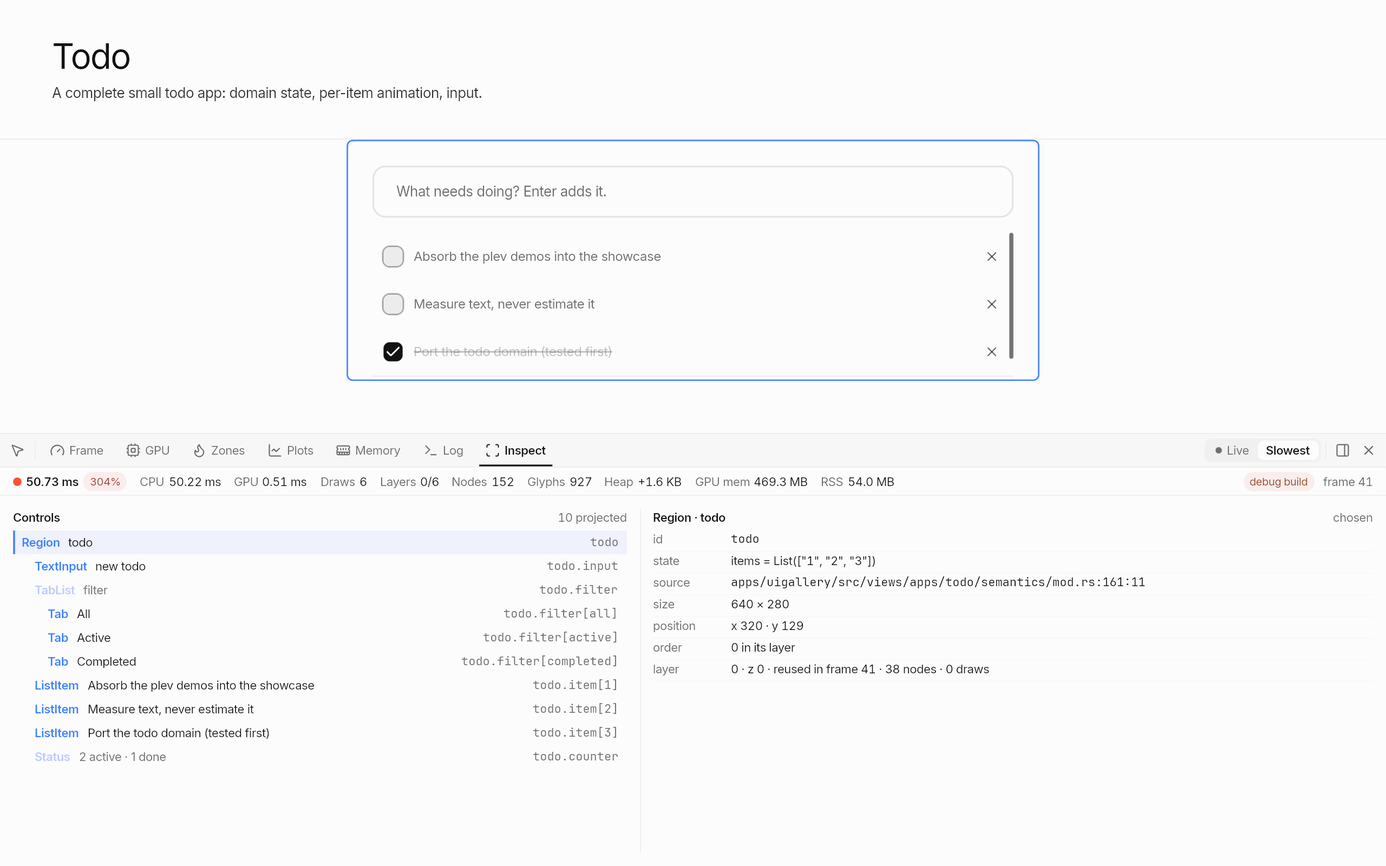
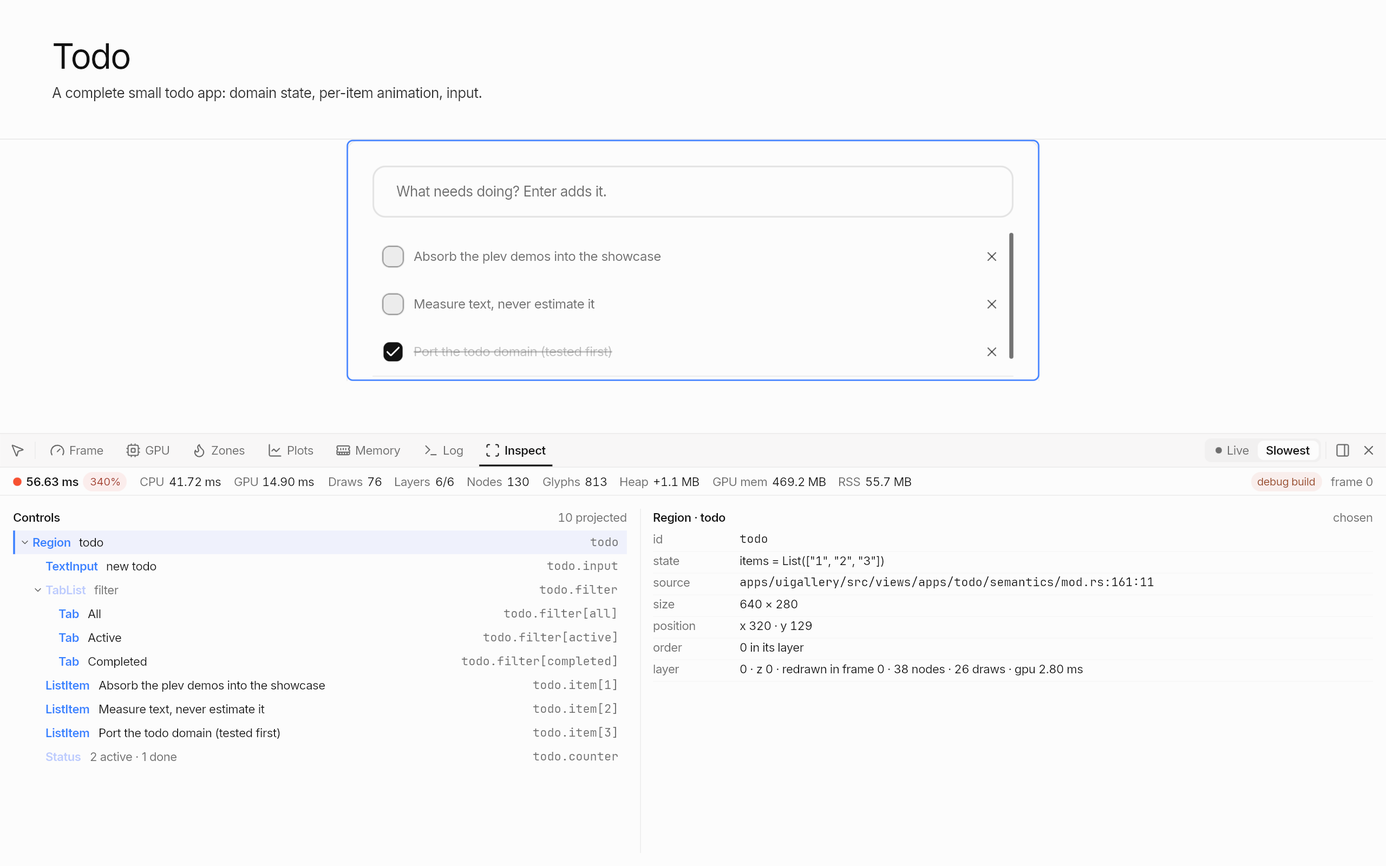
task-105: the readme says how to use the dev mode, and ADR 0093 why it is the engine's own
The task's document follows the picker, the fold, the log and the
browser, with the images drawn again and two new ones (a scene node
chosen on the Icons page, the panel in Chrome). TERMS keeps the names
the first two tries left in the pages of 2026-11, ATLAS the dev module
and Compositor::node_at, and the changelog and the catalog the record.

diff --git a/docs/Tasks/task-105-profiler-panel-in-the-gallery/task-105-profiler-panel-in-the-gallery.md b/docs/Tasks/task-105-profiler-panel-in-the-gallery/task-105-profiler-panel-in-the-gallery.md
@@ -8,7 +8,7 @@ date: 2026-11-03
 date_basis: text
 recorded: 2026-11-03
 topics: [rendering, process]
-relations: [adr-0008]
+relations: [adr-0008, adr-0093]
 source: "https://github.com/brennercruvinel/plev/issues/180"
 source_revision: a6d523b8
 revised: 2026-11-25
@@ -19,7 +19,7 @@ review: pending
 
 The engine's own view of what it does, drawn over any app. A small gear sits at the page's lower right corner. It opens a panel docked in the window, below the page or beside it, and the page lays out again in what is left, so nothing of it hides under the panel. The panel's edge drags to give it more or less of the window.
 
-A launch gets its dev mode from `PLEV_DEV`: `1` for the gear, a view's name (`PLEV_DEV=gpu`) for the panel already open on that view. F12 opens and closes the panel. Without the variable nothing is drawn, no event is taken and nothing is measured.
+A launch gets its dev mode from `PLEV_DEV`: `1` for the gear, a view's name (`PLEV_DEV=gpu`) for the panel already open on that view. In the browser, which has no environment, the page's query says the same: `?dev=1`, `?dev=gpu`. F12 opens and closes the panel. Without the request nothing is drawn, no event is taken and nothing is measured.
 
 ```sh
 PLEV_DEV=1 cargo run -p uigallery
@@ -42,8 +42,8 @@ Under the strip one line stays whatever the tab: the frame's time with its share
 - **Zones** puts the CPU's named zones on one time axis, thread by thread, each zone a bar with the zones it holds under it, in a color that is the zone's wherever it shows. The lines code said in the frame cross it as marks. The table gives every zone's calls, total, own time and its share, mean and longest run. A press on a row or on a bar chooses a zone, and its runs over the frames kept are counted in a histogram with the median, the mean and the 95th percentile.
 - **Plots** charts what each frame counted over the frames kept: the CPU's time, the GPU's, and the page's draw calls, scene nodes, glyphs and layers redrawn. Every value the app's code gave under a name follows them.
 - **Memory** counts the heap block by block: bytes and blocks asked for and given back in the frame, what the frame kept, and three charts over the frames. Beside it is what the engine holds on the GPU as one bar cut by what holds it (glyph atlas, texture pool, layers), and the process's resident memory.
-- **Log** lists the lines code said (`engine::message!`) and the process logged (`log::warn!`, `log::error!` and the rest the console shows), each with its level, its moment, its frame and its thread. A warning and an error stand on a tinted line. The counts a level filter to it, the bin hides what was said so far, and the wheel scrolls back. The lines outlive their frames: the last 500 are kept, and what was said before the panel opened is there.
-- **Inspect** shows the page's controls as a tree (the app's semantic snapshot: a role and a label a line, under its parent) and, beside it, the control chosen: its id, state, actions and flags, the code that projected it, its size and place, and what its layer did in the frame shown. A press on a line chooses a control, and the pointer over a line rings it on the page with its role and size. The picker does it the other way: the control under the pointer on the page is ringed, and a press chooses it instead of reaching the page. A page that projects nothing lists the ids its frame bound.
+- **Log** lists the lines code said (`engine::message!`) and the process logged (`log::warn!`, `log::error!` and the rest the console shows), each with its level, its moment, its frame and its thread. A warning and an error stand on a tinted line. The counts a level filter to it, the bin hides what was said so far, the wheel scrolls back, and a press on a line opens it whole, a long text in as many lines as it needs. The lines outlive their frames: the last 500 are kept, and what was said before the panel opened is there.
+- **Inspect** shows the page's controls as a tree (the app's semantic snapshot: a role and a label a line, under its parent, a parent folding what it holds) and, beside it, the thing chosen. A press on a line chooses a control, and the pointer over a line rings it on the page with its role and size. The picker does it the other way, and it picks anything the frame draws, not only what the page gave an id: the thing under the pointer is ringed, and a press chooses it instead of reaching the page. A control shows its id, state, actions and flags, the code that projected it, its size and place, and what its layer did in the frame shown. A scene node (an icon, a line of text, a card's ground) shows its kind, its paint with the color beside it, its type, its size and place, its number in its layer, and the control it sits in, which a press on that line chooses. A page that projects nothing lists the ids its frame bound; a page that binds nothing shows what its frame holds, layer by layer.
 
 ## The insights
 
@@ -77,8 +77,9 @@ Off, each of the three macros is one relaxed atomic load and a branch: no clock 
 
 ## Where it lives
 
+- **What is drawn where** is `Compositor::node_at` (`rust/engine/src/drawing/compositor/probe.rs`): the topmost scene node at a point, as the frame composites. The picker asks it beside `Compositor::hit`.
 - **The data** is in `rust/engine/src/runtime/perf/`: `zones` (nested zones per thread on one clock), `marks` (plots, messages with their level, and the tee over the `log` crate), `heap` (the counting allocator), `histogram`, `pipeline` (the 22 stages grouped into six phases), `gpu_time` (each pass with its layer and its frame) and `report` (`FrameReport`, one frame complete, and `Recorder`: the last 240 of them and the last 500 lines said).
-- **The panel** is in `rust/engine/src/runtime/dev/` (`DevMode`): `head` for the strip and the vital numbers, one file per view, `insights` for the findings and `paint` for what they draw with. It measures nothing itself.
+- **The panel** is in `rust/engine/src/runtime/dev/` (`DevMode`): `head` for the strip and the vital numbers, one file per view, `insights` for the findings, `facts` for what the Inspect view says of a control or a node, and `paint` for what they draw with. It measures nothing itself.
 - **The mount** is the gallery's shell: the pointer goes to the dev mode first, the page is resized to its share, and the panel is drawn after the page. A window host owns its recorder (`WindowHost::dev`).
 - **Without a window**, `uigallery --render <page> --dev <view> [--dev-side] --out file.png` draws 48 frames with the panel open and writes the last one. Every image below was made this way.
 
@@ -87,7 +88,9 @@ Off, each of the three macros is one relaxed atomic load and a branch: no clock 
 - **A report is exactly one frame.** The stages, zones and marks are taken after the present, so a frame holds what the app built for it and not the wait for the next one.
 - **The GPU's time is attached after the fact, and a frame shows once it is whole.** Timestamps are read back by a later frame, and each reading carries the index of the frame it measured. The engine renders on demand, so after the last frame of a change the panel asks for frames of its own to bring the timestamps back. A view that follows the app shows `Recorder::settled`: the latest frame that has its GPU time, or the latest as it is once the wait is over. Before this the panel drew the latest frame without its GPU time, the time arrived in a frame nobody drew again, and the next change showed the earlier frame with its time for one frame: a window showed no GPU time at rest, and the bars flickered at every move of the pointer.
 - **A frame the panel asks for is the tool's.** That is the frames that bring the timestamps back, and also the frames its own pointer causes (a tab under the pointer, a press on one). They are flagged and left out of "Live", "Slowest" and every chart, so the history is the app's.
+- **The picker chooses the more particular of two things.** Under a point there can be a control the page bound and a scene node the frame drew. The node is chosen when it is smaller than the control it sits in (a button's label), the control when the node is its whole ground (a button's fill), and a node alone where nothing is bound (an icon of the Icons page). A shadow is never chosen: it is the dress of the rect that casts it. The panel's own layer is left out.
 - **A view says where a press does something as it draws.** `Painter::region` keeps the place and the `Act`, and the next pointer event is read against that list. No view keeps a widget in step with what it drew, and the pointer asks for a frame only when it moves from one place to another.
+- **The page's own handling of an event is the frame's input stage.** The gallery's shell counts one event a pointer event the page takes; an event the dev mode keeps is not the page's input.
 - **The page's counts leave the dev mode out.** The panel is a layer of the same frame. The GPU view names it, and the Plots view leaves it out of the page's draw calls, nodes, glyphs and layers: a panel that draws more as its history grows was the curve itself.
 - **The heap is counted, and the marks are held, from the moment the dev mode exists.** A block older than that is counted when it is given back and never when it was asked for, so "live bytes" is the heap's change since then and can go below zero. What is said while the panel is closed is kept, up to a frame's limits, for the Log view to open with.
 - **Headless contexts give the GPU's objects no debug names off Apple's platforms** (`GpuContext::instance_flags`). The engine's GPU tests crashed in about one parallel run in four on the Linux machine (6 of 24). In the Vulkan loader Ubuntu 26.04 ships (1.4.341, fixed upstream after it, KhronosGroup/Vulkan-Loader#1863), naming an object walks every driver and device of the process while another thread's new instance unloads the drivers that found no device. With only the NVIDIA driver loaded the crash stopped (0 of 30), which confirmed it. With no names: 0 crashes in 90 parallel runs. A window keeps its names: it is made and dropped on the thread that draws.
@@ -114,20 +117,28 @@ In the Frame view's run the first frame takes 176.43 ms of CPU and 97.87 ms of G
 
 ![The Inspect view](img/dev-inspect.png)
 
+On the Icons page, which binds nothing, the picker chooses an icon: a path of 46 vertices, with its color, its size and its number in its layer.
+
+![The Inspect view on a scene node](img/dev-inspect-node.png)
+
 ![The panel beside the page](img/dev-zones-side.png)
 
 In a window on the same machine, launched with `PLEV_DEV=frame` and `PLEV_DEV=inspect` and read from a capture of the window: the panel opens with the launch, the first frame shows its GPU time (28.13 ms beside 107.67 ms of CPU), and the Theme page, which projects no semantics, lists the thirteen ids its frame bound. Launched with `PLEV_DEV=1`, the gear is at the page's lower right corner.
 
-The gallery's shell is tested through its own pointer and frame paths against a window that draws into a texture (`shell/window/pace/tests.rs`): a press on the gear opens the panel, the page takes half of the window, six frames are recorded with their zones, the page's plot and the GPU's time, the frame the panel shows has its GPU time, and a press on the close gives the page the window back; the picker chooses the control under a press and the page's state stays as it was; F12 opens and closes the panel, and is the page's key in a launch without a dev mode.
+In the browser, the web build (`tool/tasks/webtarget.sh uigallery build`) served from its `dist` and opened in Chrome without a window at `?page=Todo&dev=frame`: the panel is open on the Frame view over the Todo page, and the findings say what the browser leaves out (no GPU timestamps, a heap that is not counted). Every time reads 0 in that capture: the browser ran on a virtual clock (`--virtual-time-budget`), and the times were not read in a browser a person drives.
+
+![The dev mode in the browser](img/dev-web.png)
+
+The gallery's shell is tested through its own pointer and frame paths against a window that draws into a texture (`shell/window/pace/tests.rs`): a press on the gear opens the panel, the page takes half of the window, six frames are recorded with their zones, the page's plot and the GPU's time, the frame the panel shows has its GPU time, and a press on the close gives the page the window back; the picker chooses what is under a press on the Todo page and the page's state stays as it was; on the Icons page it chooses an icon that no id names; F12 opens and closes the panel, and is the page's key in a launch without a dev mode.
 
 ## Not done
 
-- The panel was not driven by a real pointer in a real window by its author: the window was launched and captured, and the pointer's path was run through the shell's own code against a texture. A hover, a drag of the edge and the wheel over the log were not seen on a screen.
-- On the web there is no way to turn it on: the page has no environment to read `PLEV_DEV` from, and the browser's device is not asked for timestamps.
-- Only the gallery mounts it. Another app has the same three calls to make (the event first, the page's share, the draw after the page) and none makes them yet.
-- The gallery's loop does not record the input stage.
-- The Log view shows one line a message, cut to the panel's width: a long line is not wrapped, and a line is not copied.
-- The Inspect view's tree shows every node: a subtree does not fold.
+- The panel was not driven by a real pointer in a real window by its author: the window was launched and captured, and the pointer's path was run through the shell's own code against a texture. A person drove it on a screen and reported what the third pass then changed (the picker that chose only bound controls).
+- Only the gallery mounts it. Another app has the same three calls to make (the event first, the page's share, the draw after the page), and each app and demo of the tree has a loop of its own, so none makes them yet.
+- In the browser the device is not asked for timestamps: the GPU's time reads "n/a" there.
+- The gallery's loop counts pointer events in the input stage, not keys.
+- A line of the log is not copied to the clipboard.
+- The picker chooses one thing a point: it does not walk down through what is under the thing chosen.
 - Of what Puffin and Tracy offer, these were not built: sampling with call stacks, the source view of a zone, context switches and lock contention, frame images, saving and loading a capture, comparing two captures, and the heap per zone.
 - On the Linux machine, about one parallel run in thirty of the engine's GPU tests hangs. A core dump shows a deadlock inside the NVIDIA driver (580.178.04): a thread in `vkDestroyDevice` holds a driver mutex while it waits for one of the driver's threads to end, and a test thread that is ending waits for that mutex. It happened before this task too. Keeping devices alive avoided it, but each device holds about 130 MiB of a GPU shared with other programs and the larger groups ran out of memory. With one test at a time the whole suite passes.
 
@@ -147,4 +158,5 @@ Each of those is answered by one frame report that every view reads.
 ## Related
 
 - [ADR 0008: render on demand makes invalidation a correctness contract](../../adr/Rendering/0008-render-on-demand-requires-explicit-invalidation/0008-render-on-demand-requires-explicit-invalidation.md)
+- [ADR 0093: the dev mode is the engine's own: one report a frame, shown once it is whole, in a panel that offers its places as it draws](../../adr/Workflows/0093-the-dev-mode-is-the-engines-own/0093-the-dev-mode-is-the-engines-own.md)
 <!-- /related -->

diff --git a/docs/adr/Workflows/0093-the-dev-mode-is-the-engines-own/0093-the-dev-mode-is-the-engines-own.md b/docs/adr/Workflows/0093-the-dev-mode-is-the-engines-own/0093-the-dev-mode-is-the-engines-own.md
@@ -1,0 +1,63 @@
+---
+id: adr-0093
+title: "the dev mode is the engine's own: one report a frame, shown once it is whole, in a panel that offers its places as it draws"
+project: plev
+type: adr
+status: accepted
+date: 2026-11-25
+date_basis: git
+recorded: 2026-11-25
+topics: [rendering, process, performance]
+relations: [task-105, adr-0008, adr-0048]
+evidence: [f7695626, bb10319c]
+source: reconstruction
+source_revision: 7ba5cfab
+revised: 2026-11-25
+review: reviewed
+---
+
+# the dev mode is the engine's own: one report a frame, shown once it is whole, in a panel that offers its places as it draws
+
+Decides how the engine shows a person what a frame did: with its own clocks and its own panel, from one report a frame, and never a frame that is still missing a part ([task-105](../../../Tasks/task-105-profiler-panel-in-the-gallery/task-105-profiler-panel-in-the-gallery.md)).
+
+## context
+
+The first try of task-105 put Puffin and Tracy behind two features of the gallery, with wgpu-profiler timing the GPU. Reading it before replacing it found the stages taken before the present (a frame's boundary was wrong), the GPU's stages never reaching the panel, a pass with no layer to trace its time to, a panel that woke the window four times a second, and six tools reading the frame with no two of them sharing a report.
+
+The second try was the engine's own and measured well. In a window it still showed no GPU time at rest and flickered at every move of the pointer: the engine renders on demand ([adr-0008](../../Rendering/0008-render-on-demand-requires-explicit-invalidation/0008-render-on-demand-requires-explicit-invalidation.md)), a frame's GPU timestamps are read back by a later frame, and the panel drew the latest frame before its time arrived, in a frame nobody drew again. Its panel was built from the kit's buttons, each kept in step by hand with what the panel drew, and its picker chose only what a page had bound to an id: on a page of icons it chose nothing.
+
+## decision
+
+- **The clocks, the counters and the panel are the engine's.** No profiler is a dependency. The data is `engine::runtime::perf` (stages, zones, marks, heap, GPU timestamps); the panel is `engine::runtime::dev` and measures nothing.
+- **A report is exactly one frame.** The stages, zones and marks are taken after the present. Every view reads that one `FrameReport`; the lines code said also go to a log that outlives the frames.
+- **A frame shows once it is whole.** A view that follows the app shows `Recorder::settled`: the latest frame that has its GPU time, or the latest as it is once the wait for its timestamps is over. The panel asks for the frames that bring the timestamps back.
+- **A frame the panel causes is the tool's.** The frames that bring timestamps back and the frames its own pointer causes are flagged and left out of the history, the charts and the findings.
+- **A view says where a press does something as it draws.** `Painter::region` keeps a place and an `Act`; the next pointer event is read against that list. A view keeps no widget, and the pointer asks for a frame only when it moves from one place to another.
+- **The picker chooses anything the frame draws.** What is under a point is the bound control there (`Compositor::hit`) or the scene node there (`Compositor::node_at`), whichever is the more particular: the node when it is smaller than the control it sits in, the control when the node is its whole ground.
+- **The findings are rules over the numbers.** Each insight is read from the frame shown and the frames kept, with the numbers it was drawn from in its words; none is a guess about code the engine cannot see.
+- **A launch without it pays nothing.** `PLEV_DEV` (the page's `?dev=` in the browser) gives a launch its dev mode. Without it nothing is drawn, no event is taken, no device feature is asked for, and each mark of the app's code is one relaxed load and a branch.
+
+## consequences
+
+What the panel shows is what the engine measured of itself, with no second clock to reconcile and nothing to install. The GPU's time shows at rest, and a frame appears once.
+
+The panel is a layer of the frame it measures. Its cost is in the frame (the zone `dev mode`), and the findings say it when it is more than a millisecond; the page's own counts leave its layer out.
+
+What Puffin and Tracy offer and the engine does not is not there: sampling with call stacks, the source view of a zone, context switches and lock contention, saving and comparing captures.
+
+An app mounts it with three calls of its own loop (the pointer first, the page's share, the draw after the page). Only the gallery makes them today.
+
+## alternatives
+
+- Puffin and Tracy behind features: the first try. Two dependencies with their own clocks and windows, and a frame boundary the engine could not set.
+- The kit's widgets for the panel's controls: the second try. Each needed its place computed twice, for the draw and for the event, and its state kept beside the panel's.
+- Showing the latest frame at once and its GPU time when it arrives: the flicker, and at rest no GPU time at all.
+- A picker over bound controls only: nothing to choose on a page that binds nothing, which is most of a design system's pages.
+
+<!-- related: written by tool/tasks/docbase.py index from the relations in the headers; edit the headers, not this list -->
+## Related
+
+- [ADR 0008: render on demand makes invalidation a correctness contract](../../Rendering/0008-render-on-demand-requires-explicit-invalidation/0008-render-on-demand-requires-explicit-invalidation.md)
+- [ADR 0048: view source for pixels: a control leads to its projection, a text to its literal](../0048-view-source-for-pixels/0048-view-source-for-pixels.md)
+- [task-105: a dev mode over any app: the frame, the GPU, the zones, the heap and the page's controls](../../../Tasks/task-105-profiler-panel-in-the-gallery/task-105-profiler-panel-in-the-gallery.md)
+<!-- /related -->

diff --git a/README.md b/README.md
@@ -163,6 +163,57 @@ cargo run -p idestudio
 cargo run -p idestudio -- ../urna
 ```
 
+### O dev mode
+
+A gallery tem um dev mode do próprio engine, sem dependência externa: o que
+cada frame fez, medido pelo engine e mostrado num painel dentro da janela.
+Ele só existe quando você pede:
+
+```
+PLEV_DEV=1 cargo run -p uigallery        # a engrenagem no canto inferior direito
+PLEV_DEV=gpu cargo run -p uigallery      # o painel já aberto numa aba
+```
+
+Clique na engrenagem, ou aperte F12, para abrir e fechar. No navegador o
+pedido vai no endereço: `?dev=1` ou `?dev=gpu`. Sem o pedido nada é
+desenhado nem medido.
+
+| Aba | O que mostra |
+|---|---|
+| Frame | para onde foi o tempo do frame, fase por fase, e os **insights**: o que passou do orçamento de 16,6 ms, o que foi redesenhado à toa, o que o heap e o log dizem |
+| GPU | cada render pass com o layer que desenhou e o tempo medido pela própria GPU |
+| Zones | as zonas de CPU numa linha do tempo, com tabela e histograma da zona escolhida |
+| Plots | o que cada frame contou, em gráficos, e os valores que o seu código der |
+| Memory | o heap bloco a bloco e o que o engine guarda na GPU |
+| Log | o que o código disse e o que o processo logou, por nível |
+| Inspect | os controles da página em árvore, e qualquer coisa que o frame desenha: aponte com o seletor e clique |
+
+A linha logo abaixo das abas fica em qualquer uma delas: tempo do frame
+contra o orçamento, CPU, GPU, draw calls, layers, heap e memória. À direita
+você escolhe o frame mostrado (`Live`, `Slowest`, ou um clique numa barra
+do histórico), move o painel para o lado e fecha. A borda do painel arrasta
+para redimensionar.
+
+No seu código, três macros alimentam o painel e custam uma leitura atômica
+quando ele está desligado:
+
+```rust
+engine::zone!("scene build");            // uma zona nomeada, até o fim do bloco
+engine::plot!("controls bound", count);  // um valor por frame, sob um nome
+engine::message!("page {name} staged");  // uma linha no log
+```
+
+Para uma imagem sem abrir janela:
+
+```
+cargo run -p uigallery -- --render Todo --dev frame --out frame.png
+```
+
+O desenho inteiro está em
+[docs/Tasks/task-105-profiler-panel-in-the-gallery](docs/Tasks/task-105-profiler-panel-in-the-gallery/task-105-profiler-panel-in-the-gallery.md)
+e a decisão no
+[ADR 0093](docs/adr/Workflows/0093-the-dev-mode-is-the-engines-own/0093-the-dev-mode-is-the-engines-own.md).
+
 ### No navegador
 
 Cada comando imprime o endereço a abrir. Uma porta já ocupada é pulada para

diff --git a/docs/CHANGELOG.md b/docs/CHANGELOG.md
@@ -77,12 +77,17 @@ The texts on gamma, on apps bypassing the engine and on the HOFF tokens, and the
   a gear at the page's lower right corner in place of the "Dev" button,
   a strip of small tabs with icons, the frame's vital numbers on one line
   under them, and the edge of the panel dragged to size it; `PLEV_DEV`
-  takes a view's name to open on it, and F12 opens and closes the panel.
-  The Frame view says what its numbers mean (the insights); the Log view
-  keeps its lines after their frames, by level, with what `log::warn!`
-  and `log::error!` say; the Inspect view shows the page's controls as a
-  tree. A frame shows once its GPU time is in, which a window never
-  showed at rest before.
+  takes a view's name to open on it (`?dev=` in the browser), and F12
+  opens and closes the panel. The Frame view says what its numbers mean
+  (the insights); the Log view keeps its lines after their frames, by
+  level, with what `log::warn!` and `log::error!` say, and a press opens
+  a long line whole; the Inspect view shows the page's controls as a tree
+  that folds, and its picker chooses anything the frame draws, a control
+  or a scene node (`Compositor::node_at`): an icon of a page that binds
+  nothing is chosen like a button. A frame shows once its GPU time is in,
+  which a window never showed at rest before. The README says how to use
+  it.
+- ADR 0093: [the dev mode is the engine's own: one report a frame, shown once it is whole, in a panel that offers its places as it draws](adr/Workflows/0093-the-dev-mode-is-the-engines-own/0093-the-dev-mode-is-the-engines-own.md)
 - task-106 after its review: `.design`, `.devops` and `.secops` are gone
   from the root and the lychee, nextest and typos contracts live in
   `.config`; `builddir.sh seed` refuses where it cannot clone; the iOS

diff --git a/docs/README.md b/docs/README.md
@@ -34,6 +34,7 @@ backs each claim.
 | what we know about a subject | [research](Research/Research.md), by the same themes as the ADRs, with the [generative runtime thesis](Research/Synthesis/generative-runtime-thesis.md) and its [program](Research/Synthesis/generative-runtime-program.md) |
 | what went wrong and what stayed | the learnings, beside the decision they speak to, in the ADR's folder; what taught the way of working in [Research/Workflows](Research/Workflows/autonomous-cycle-learnings.md) |
 | work on the code today | [Research/Workflows](Research/Research.md#workflows), starting with the [engine manual](Research/Workflows/code-against-the-plev-engine.md) |
+| see what a frame did, on screen | the dev mode: `PLEV_DEV=1 cargo run -p uigallery`, then the gear or F12; [task-105](Tasks/task-105-profiler-panel-in-the-gallery/task-105-profiler-panel-in-the-gallery.md) says every view, [ADR 0093](adr/Workflows/0093-the-dev-mode-is-the-engines-own/0093-the-dev-mode-is-the-engines-own.md) why it is the engine's own |
 | the architecture on one page | [ATLAS.toml](ATLAS.toml); the old names and today's in [TERMS.toml](TERMS.toml) |
 
 ## How the pieces connect

diff --git a/docs/adr/Workflows/0048-view-source-for-pixels/0048-view-source-for-pixels.md b/docs/adr/Workflows/0048-view-source-for-pixels/0048-view-source-for-pixels.md
@@ -217,6 +217,7 @@ consequences of phase c:
 - [ADR 0031: hot reload on by default: shaders and literals in place, code by rebuild](../0031-hot-reload-on-by-default-in-gpu-context/0031-hot-reload-on-by-default-in-gpu-context.md)
 - [ADR 0032: semantic contract as a pure projection of app state](../../Semantics/0032-semantic-contract-as-pure-projection/0032-semantic-contract-as-pure-projection.md)
 - [ADR 0035: semantic binding beside the scene, and the click as a request](../../Semantics/0035-semantic-binding-beside-the-scene/0035-semantic-binding-beside-the-scene.md)
+- [ADR 0093: the dev mode is the engine's own: one report a frame, shown once it is whole, in a panel that offers its places as it draws](../0093-the-dev-mode-is-the-engines-own/0093-the-dev-mode-is-the-engines-own.md)
 - [task-63: session flight recorder](../../../Tasks/task-63-flight-recorder/task-63-flight-recorder.md)
 - [task-65: pixel to code and development inspector](../../../Tasks/task-65-pixel-to-source/task-65-pixel-to-source.md)
 - [task-65 phases a and b: from pixel to code](../../../Tasks/task-65-pixel-to-source/phase-a-b.md)

diff --git a/docs/adr/adr.md b/docs/adr/adr.md
@@ -351,3 +351,4 @@ how work is done: hot reload, regression, determinism, lint.
 - [0089](Workflows/0089-a-build-directory-belongs-to-one-checkout/0089-a-build-directory-belongs-to-one-checkout.md) a build directory belongs to one checkout, starts from a clone and has a ceiling
 - [0090](Workflows/0090-the-toolchain-is-one-exact-version/0090-the-toolchain-is-one-exact-version.md) the toolchain is one exact version, read from one file
 - [0092](Workflows/0092-every-member-builds-one-engine/0092-every-member-builds-one-engine.md) every member builds one engine, and the gate builds the other shape
+- [0093](Workflows/0093-the-dev-mode-is-the-engines-own/0093-the-dev-mode-is-the-engines-own.md) the dev mode is the engine's own: one report a frame, shown once it is whole, in a panel that offers its places as it draws

diff --git a/docs/adr/Rendering/0008-render-on-demand-requires-explicit-invalidation/0008-render-on-demand-requires-explicit-invalidation.md b/docs/adr/Rendering/0008-render-on-demand-requires-explicit-invalidation/0008-render-on-demand-requires-explicit-invalidation.md
@@ -53,5 +53,6 @@ was initially misread as "scroll not implemented".
 ## Related
 
 - [ADR 0023: official app pattern: state in structs, retained widgets, explicit invalidation](../../Structure/0023-official-app-pattern/0023-official-app-pattern.md)
+- [ADR 0093: the dev mode is the engine's own: one report a frame, shown once it is whole, in a panel that offers its places as it draws](../../Workflows/0093-the-dev-mode-is-the-engines-own/0093-the-dev-mode-is-the-engines-own.md)
 - [task-105: a dev mode over any app: the frame, the GPU, the zones, the heap and the page's controls](../../../Tasks/task-105-profiler-panel-in-the-gallery/task-105-profiler-panel-in-the-gallery.md)
 <!-- /related -->
